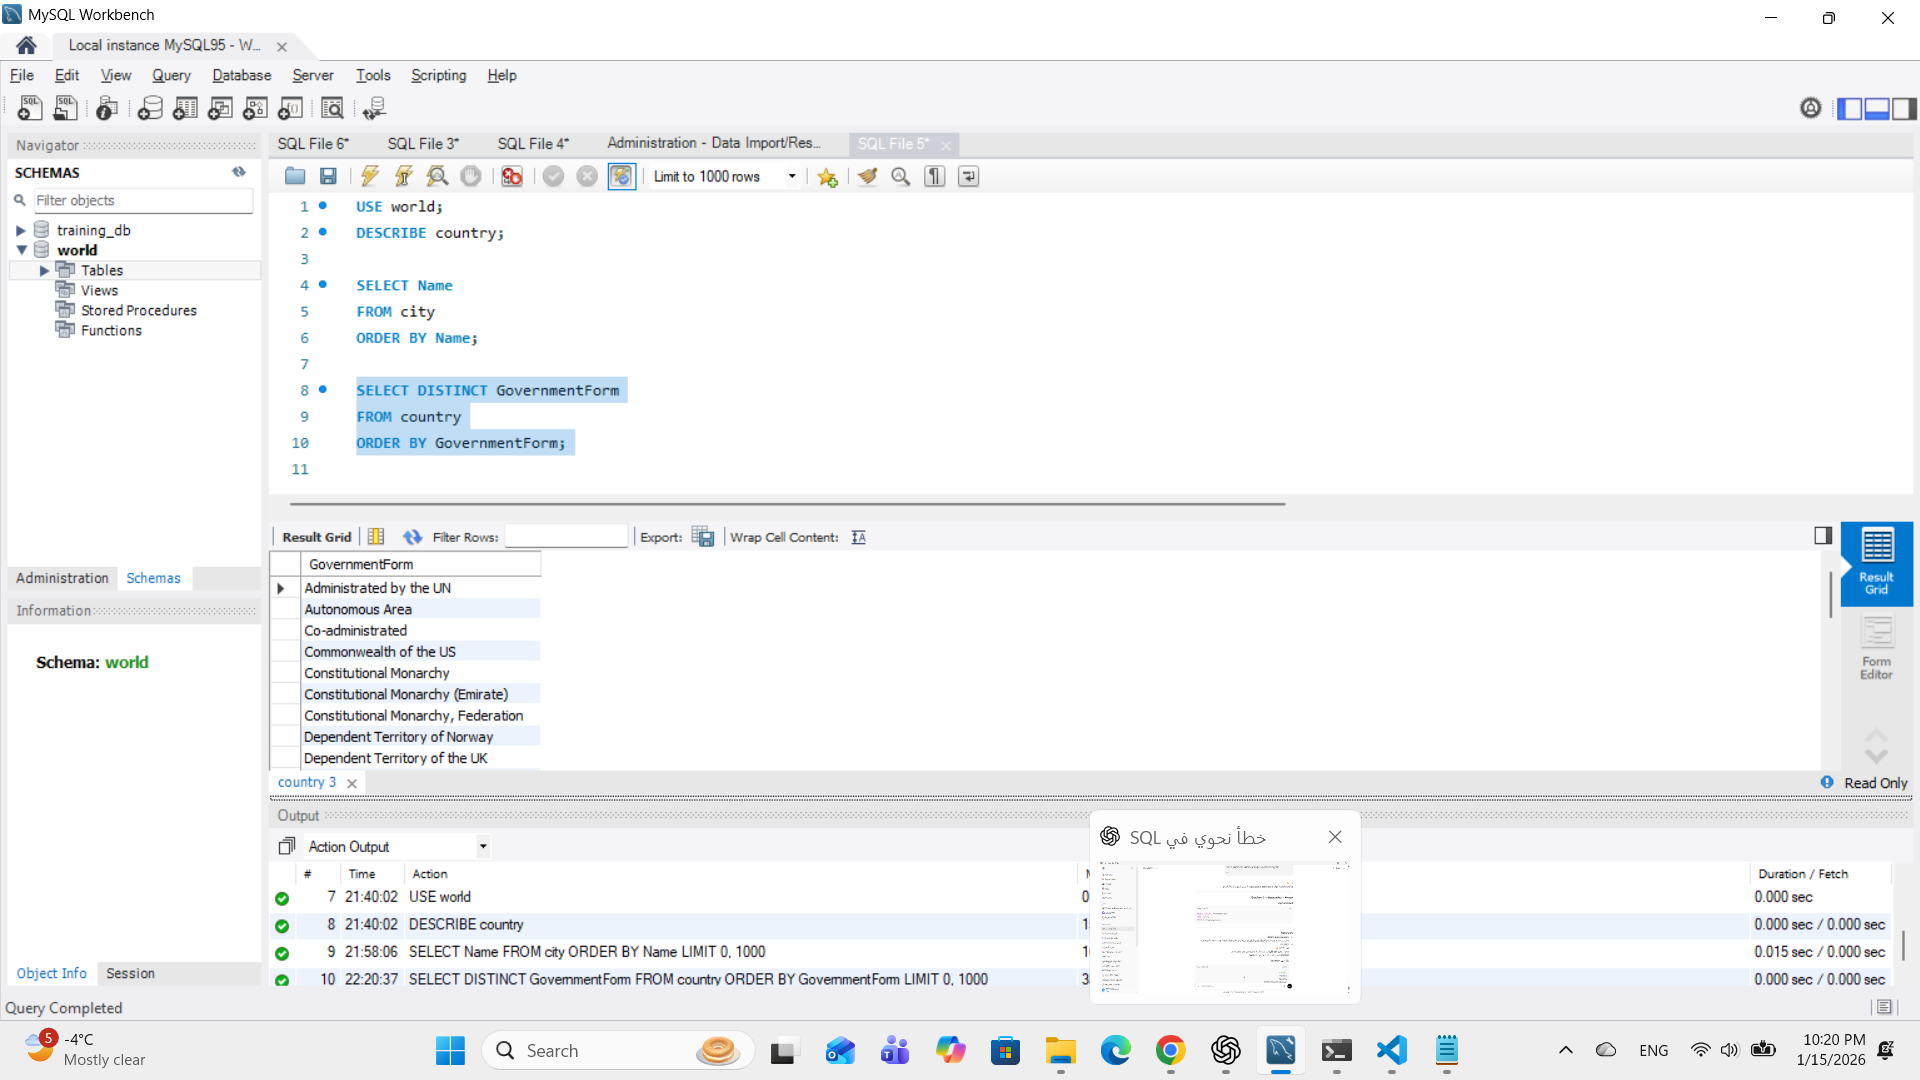
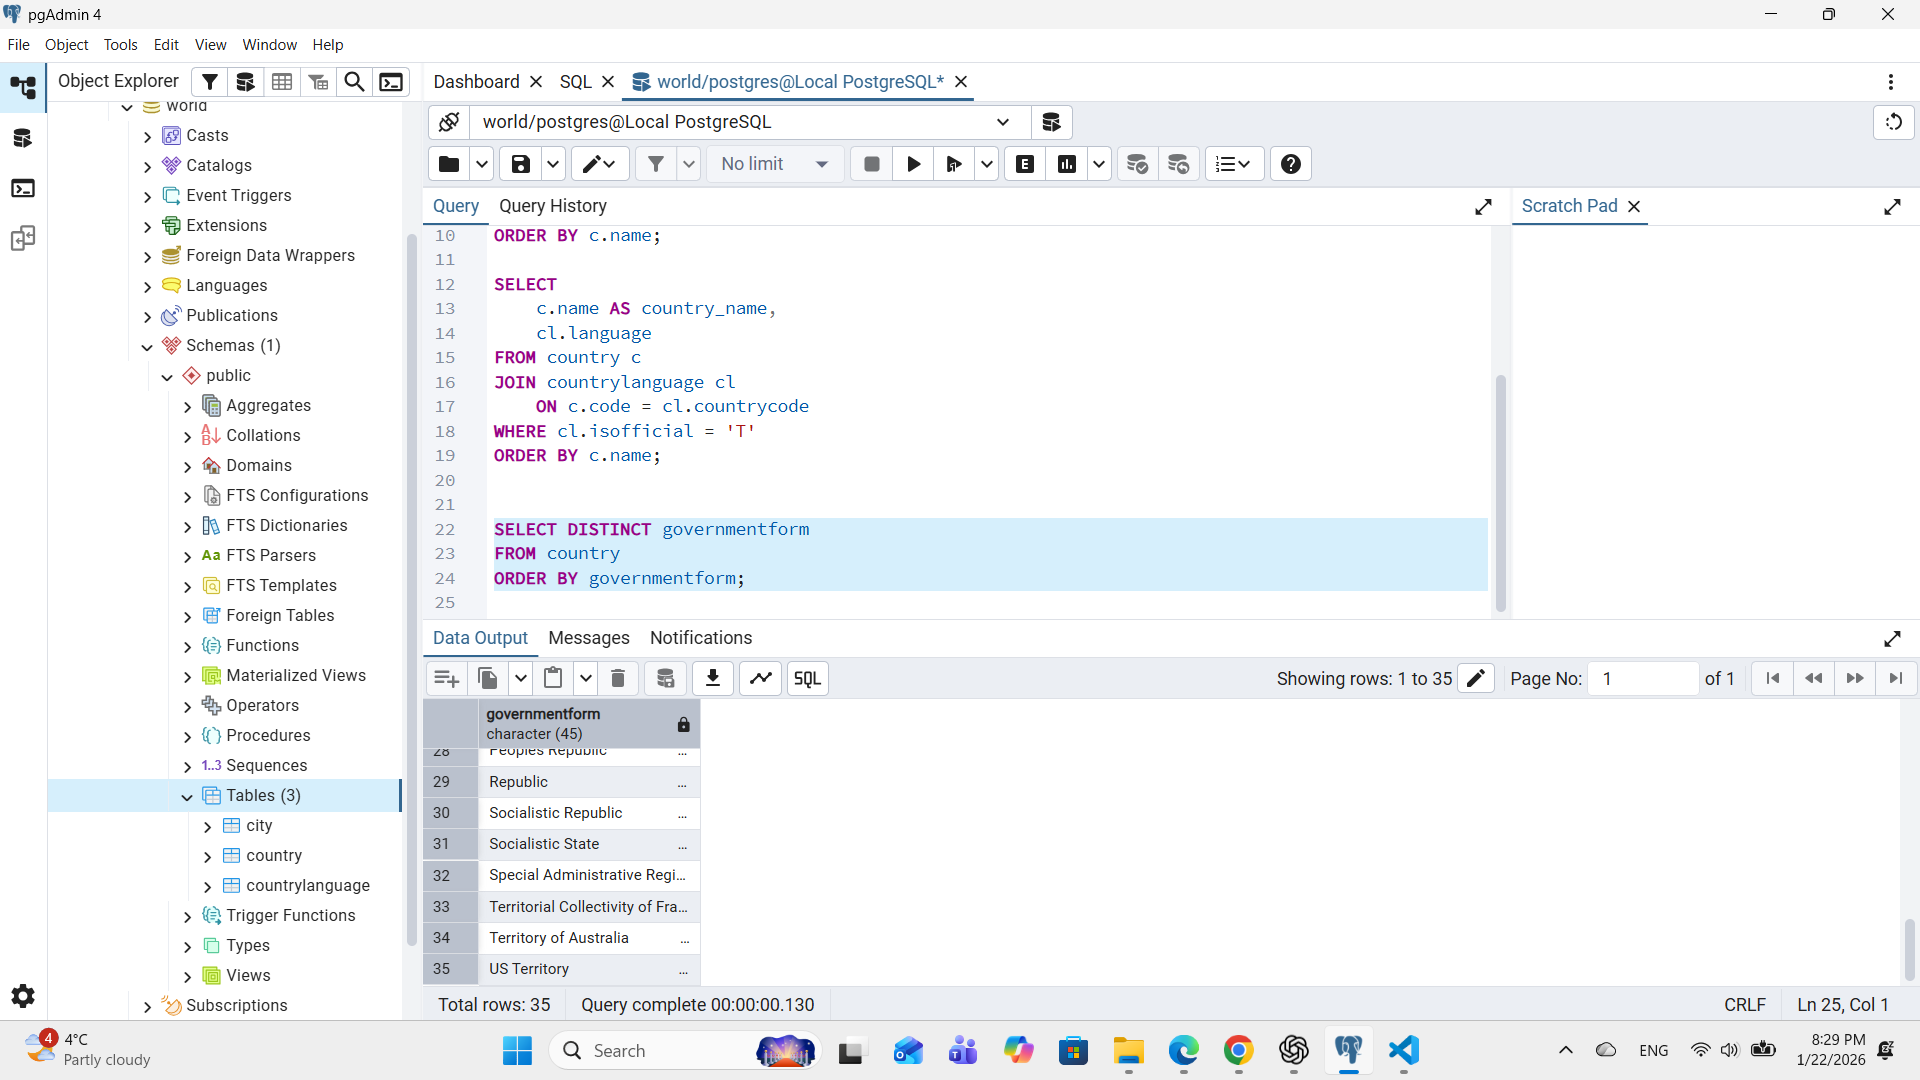
Complete Exercise 02: World Database (Q1Q11)

diff --git a/exercises/exercise02.md b/exercises/exercise02.md
@@ -23,13 +23,14 @@
 When importing records from `worldPGSQL.sql`, **how many cities were imported**?
 
 ### Answer
-_Write the number of cities imported._
-
+The total number of cities imported is 4079.
 ### Screenshot
 _Show evidence of how you determined this (for example, a COUNT query)._
 
 ```sql
--- Your SQL here
+-- SELECT COUNT(*) AS total_cities
+-- FROM city;
+
 ```
 
 ![Q1 Screenshot](screenshots/q1_city_count.png)
@@ -43,8 +44,14 @@ Using the World database, write the SQL command to **display each country name a
 ### SQL
 
 ```sql
--- Your SQL here
-```
+--
+SELECT
+    c.name AS country_name,
+    cl.language
+FROM country c
+JOIN countrylanguage cl
+    ON c.code = cl.countrycode
+ORDER BY c.name;
 
 ### Screenshot
 
@@ -59,7 +66,15 @@ Using the World database, write the SQL command to **display each country name a
 ### SQL
 
 ```sql
--- Your SQL here
+-- SELECT
+    c.name AS country_name,
+    cl.language
+FROM country c
+JOIN countrylanguage cl
+    ON c.code = cl.countrycode
+WHERE cl.isofficial = 'T'
+ORDER BY c.name;
+
 ```
 
 ### Screenshot
@@ -88,7 +103,11 @@ ON country.code = countrylanguage.countrycode;
 **In your own words**, describe what data the **second query returns that the first query does not**.
 
 ### Answer
-_Write your explanation here._
+The second query (LEFT OUTER JOIN) returns all countries, including those that do not have any matching records in the countrylanguage table.
+
+In contrast, the first query returns only countries that have at least one matching language, because it uses an implicit inner join in the WHERE clause. Any country without a corresponding entry in countrylanguage is excluded.
+
+With the left outer join, countries without languages still appear in the result, but the language-related columns contain NULL values._
 
 ---
 
@@ -100,7 +119,11 @@ Do **not** repeat any form of government more than once.
 ### SQL
 
 ```sql
--- Your SQL here
+--
+SELECT DISTINCT governmentform
+FROM country
+ORDER BY governmentform;
+
 ```
 
 ### Screenshot
@@ -117,8 +140,14 @@ Label the column **"City or Country Name"**.
 ### SQL
 
 ```sql
--- Your SQL here
-```
+
+```SELECT name AS "City or Country Name"
+FROM city
+UNION
+SELECT name AS "City or Country Name"
+FROM country
+ORDER BY "City or Country Name";
+
 
 ### Screenshot
 
@@ -135,7 +164,15 @@ Be sure to **sort by country name**.
 
 ```sql
 -- Your SQL here
-```
+```SELECT
+    c.name AS country_name,
+    COUNT(cl.language) AS language_count
+FROM country c
+LEFT JOIN countrylanguage cl
+    ON c.code = cl.countrycode
+GROUP BY c.name
+ORDER BY c.name;
+
 
 ### Screenshot
 
@@ -152,7 +189,13 @@ Be sure to **sort by language name**.
 
 ```sql
 -- Your SQL here
-```
+```SELECT
+    cl.language,
+    COUNT(DISTINCT cl.countrycode) AS country_count
+FROM countrylanguage cl
+GROUP BY cl.language
+ORDER BY cl.language;
+
 
 ### Screenshot
 
